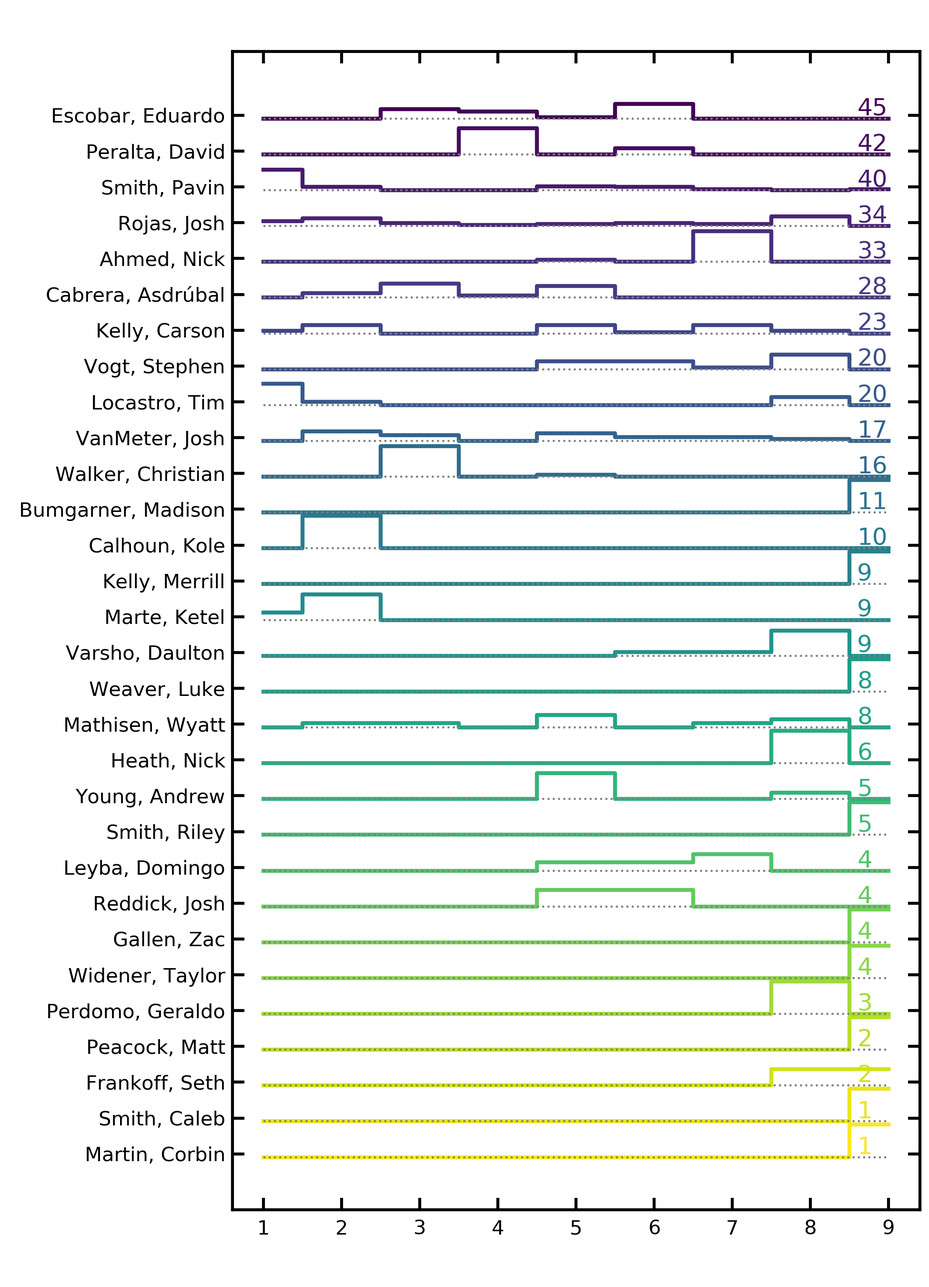
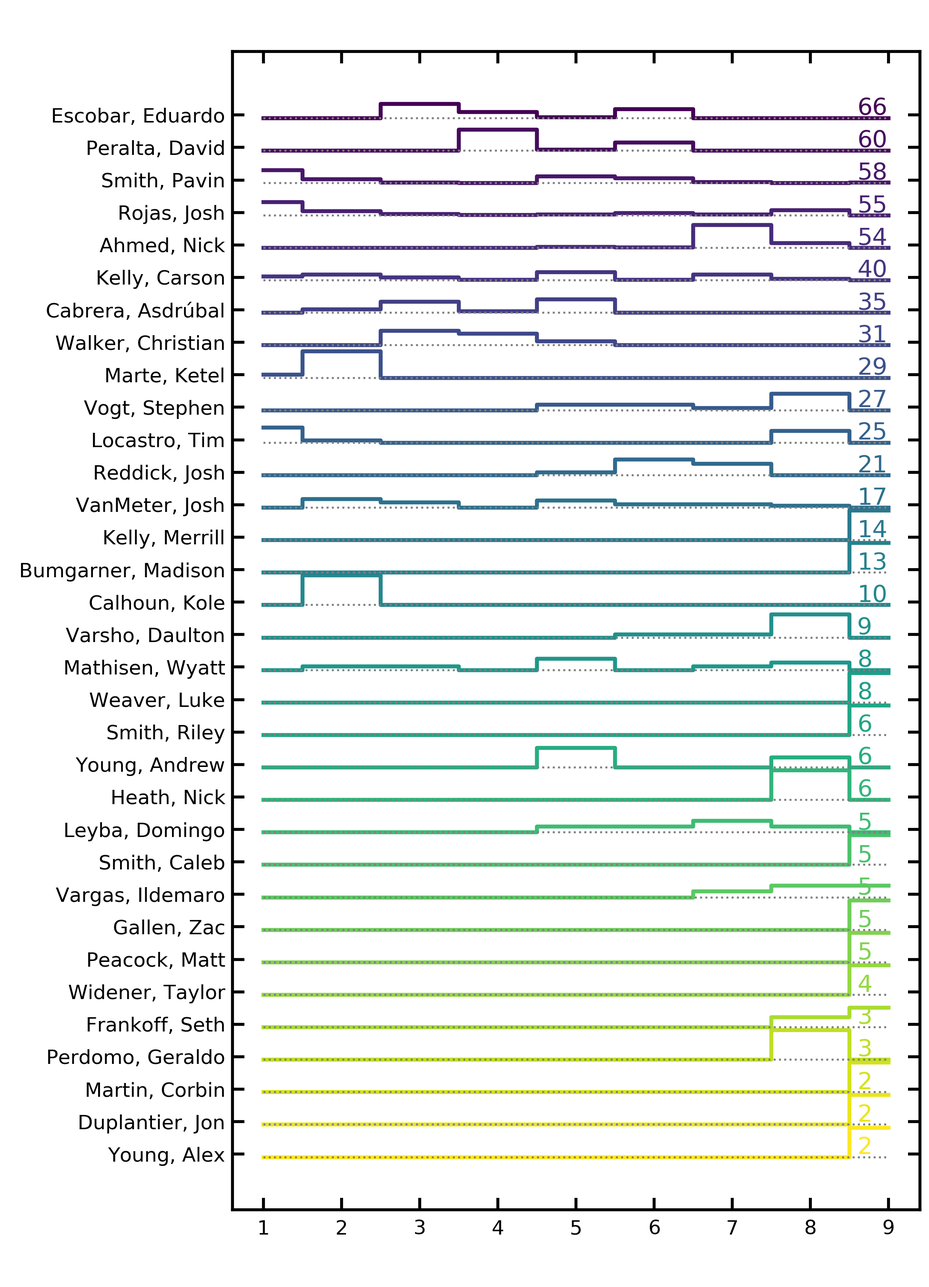
update lineups

Changed region(s): [[0.0308, 0.0622, 0.9846, 0.9022]]

diff --git a/Lineups/index.html b/Lineups/index.html
@@ -5,43 +5,57 @@
     <link rel="stylesheet" href="style.css" />
     <meta charset="UTF-8">
     <!--https://www.w3schools.com/css/css_table.asp-->
-  </head>
+<script>
+window.onload=function(){ 
+const getCellValue = (tr, idx) => tr.children[idx].innerText || tr.children[idx].textContent;
+const comparer = (idx, asc) => (a, b) => ((v1, v2) => 
+    v1 !== '' && v2 !== '' && !isNaN(v1) && !isNaN(v2) ? v1 - v2 : v1.toString().localeCompare(v2)
+    )(getCellValue(asc ? a : b, idx), getCellValue(asc ? b : a, idx));
+// do the work...
+document.querySelectorAll('th').forEach(th => th.addEventListener('click', (() => {
+    const table = th.closest('table');
+    Array.from(table.querySelectorAll('tr:nth-child(n+2)'))
+        .sort(comparer(Array.from(th.parentNode.children).indexOf(th), this.asc = !this.asc))
+        .forEach(tr => table.appendChild(tr) );
+})));
+}
+</script>  </head>
 
   <body>
   <h2>Batting Order Breakdown</h2>
   <p>For each team, what is the "typical" 2021 lineup?</p>
 <table id="customers">
 <tr><th>Team</th><th>1st</th><th>2nd</th><th>3rd</th><th>4th</th><th>5th</th><th>6th</th><th>7th</th><th>8th</th><th>9th</th><th>Similarity</th><th>First Appeared</th></tr>
-<tr><td><a href="figures/2021LAAorder.png">LAA</a></td><td>Fletcher, David</td><td>Ohtani, Shohei</td><td>Trout, Mike</td><td>Rendon, Anthony</td><td>Walsh, Jared</td><td>Upton, Justin</td><td>Iglesias, José</td><td>Suzuki, Kurt</td><td>Fowler, Dexter</td><td>5.29</td><td>3</td></tr>
-<tr><td><a href="figures/2021HOUorder.png">HOU</a></td><td>Altuve, Jose</td><td>Brantley, Michael</td><td>Bregman, Alex</td><td>Tucker, Kyle</td><td>Correa, Carlos</td><td>Alvarez, Yordan</td><td>Gurriel, Yuli</td><td>Straw, Myles</td><td>Maldonado, Martín</td><td>4.43</td><td>1</td></tr>
-<tr><td><a href="figures/2021OAKorder.png">OAK</a></td><td>Canha, Mark</td><td>Olson, Matt</td><td>Lowrie, Jed</td><td>Moreland, Mitch</td><td>Chapman, Matt</td><td>Piscotty, Stephen</td><td>Tom, Ka'ai</td><td>Andrus, Elvis</td><td>Garcia, Aramis</td><td>2.81</td><td>4</td></tr>
-<tr><td><a href="figures/2021TORorder.png">TOR</a></td><td>Semien, Marcus</td><td>Biggio, Cavan</td><td>Bichette, Bo</td><td>Hernández, Teoscar</td><td>Guerrero Jr., Vladimir</td><td>Gurriel Jr., Lourdes</td><td>Grichuk, Randal</td><td>Panik, Joe</td><td>Jansen, Danny</td><td>6.0</td><td>6</td></tr>
-<tr><td><a href="figures/2021ATLorder.png">ATL</a></td><td>Acuña Jr., Ronald</td><td>Albies, Ozzie</td><td>Freeman, Freddie</td><td>Ozuna, Marcell</td><td>d'Arnaud, Travis</td><td>Swanson, Dansby</td><td>Riley, Austin</td><td>Pache, Cristian</td><td>Fried, Max</td><td>5.33</td><td>1</td></tr>
-<tr><td><a href="figures/2021MILorder.png">MIL</a></td><td>Wong, Kolten</td><td>Hiura, Keston</td><td>Yelich, Christian</td><td>García, Avisaíl</td><td>Bradley Jr., Jackie</td><td>Urías, Luis</td><td>Narváez, Omar</td><td>Arcia, Orlando</td><td>Anderson, Brett</td><td>3.86</td><td>4</td></tr>
-<tr><td><a href="figures/2021STLorder.png">STL</a></td><td>Edman, Tommy</td><td>Goldschmidt, Paul</td><td>Arenado, Nolan</td><td>DeJong, Paul</td><td>O'Neill, Tyler</td><td>Molina, Yadier</td><td>Carlson, Dylan</td><td>Williams, Justin</td><td>Flaherty, Jack</td><td>4.86</td><td>1</td></tr>
-<tr><td><a href="figures/2021CHCorder.png">CHC</a></td><td>Happ, Ian</td><td>Contreras, Willson</td><td>Rizzo, Anthony</td><td>Bryant, Kris</td><td>Pederson, Joc</td><td>Báez, Javier</td><td>Heyward, Jason</td><td>Bote, David</td><td>Hendricks, Kyle</td><td>3.71</td><td>1</td></tr>
-<tr><td><a href="figures/2021ARIorder.png">ARI</a></td><td>Rojas, Josh</td><td>Marte, Ketel</td><td>Walker, Christian</td><td>Peralta, David</td><td>Cabrera, Asdrúbal</td><td>Escobar, Eduardo</td><td>Kelly, Carson</td><td>Locastro, Tim</td><td>Bumgarner, Madison</td><td>3.86</td><td>6</td></tr>
-<tr><td><a href="figures/2021LADorder.png">LAD</a></td><td>Betts, Mookie</td><td>Seager, Corey</td><td>Turner, Justin</td><td>Bellinger, Cody</td><td>Muncy, Max</td><td>Taylor, Chris</td><td>Lux, Gavin</td><td>Barnes, Austin</td><td>Kershaw, Clayton</td><td>2.86</td><td>1</td></tr>
-<tr><td><a href="figures/2021SForder.png">SF</a></td><td>Slater, Austin</td><td>Yastrzemski, Mike</td><td>Solano, Donovan</td><td>Longoria, Evan</td><td>Ruf, Darin</td><td>Flores, Wilmer</td><td>Posey, Buster</td><td>Crawford, Brandon</td><td>Dubón, Mauricio</td><td>2.0</td><td>2</td></tr>
-<tr><td><a href="figures/2021CLEorder.png">CLE</a></td><td>Luplow, Jordan</td><td>Hernandez, Cesar</td><td>Ramírez, José</td><td>Rosario, Eddie</td><td>Reyes, Franmil</td><td>Naylor, Josh</td><td>Chang, Yu</td><td>Pérez, Roberto</td><td>Giménez, Andrés</td><td>5.0</td><td>1</td></tr>
-<tr><td><a href="figures/2021SEAorder.png">SEA</a></td><td>Haniger, Mitch</td><td>France, Ty</td><td>Seager, Kyle</td><td>White, Evan</td><td>Trammell, Taylor</td><td>Moore, Dylan</td><td>Fraley, Jake</td><td>Torrens, Luis</td><td>Crawford, J.P.</td><td>5.29</td><td>2</td></tr>
-<tr><td><a href="figures/2021MIAorder.png">MIA</a></td><td>Dickerson, Corey</td><td>Marte, Starling</td><td>Aguilar, Jesús</td><td>Duvall, Adam</td><td>Anderson, Brian</td><td>Chisholm Jr., Jazz</td><td>Alfaro, Jorge</td><td>Rojas, Miguel</td><td>Alcantara, Sandy</td><td>3.14</td><td>1</td></tr>
-<tr><td><a href="figures/2021NYMorder.png">NYM</a></td><td>Nimmo, Brandon</td><td>Lindor, Francisco</td><td>Conforto, Michael</td><td>Alonso, Pete</td><td>Smith, Dominic</td><td>Villar, Jonathan</td><td>McNeil, Jeff</td><td>McCann, James</td><td>Walker, Taijuan</td><td>3.75</td><td>4</td></tr>
-<tr><td><a href="figures/2021WSHorder.png">WSH</a></td><td>Robles, Victor</td><td>Turner, Trea</td><td>Soto, Juan</td><td>Zimmerman, Ryan</td><td>Castro, Starlin</td><td>Pérez, Hernán</td><td>Stevenson, Andrew</td><td>Lucroy, Jonathan</td><td>Scherzer, Max</td><td>4.0</td><td>1</td></tr>
-<tr><td><a href="figures/2021BALorder.png">BAL</a></td><td>Mullins, Cedric</td><td>Mancini, Trey</td><td>Santander, Anthony</td><td>Mountcastle, Ryan</td><td>Ruiz, Rio</td><td>Hays, Austin</td><td>Franco, Maikel</td><td>Galvis, Freddy</td><td>Severino, Pedro</td><td>4.29</td><td>1</td></tr>
-<tr><td><a href="figures/2021SDorder.png">SD</a></td><td>Pham, Tommy</td><td>Tatis Jr., Fernando</td><td>Machado, Manny</td><td>Hosmer, Eric</td><td>Myers, Wil</td><td>Cronenworth, Jake</td><td>Profar, Jurickson</td><td>Caratini, Victor</td><td>Darvish, Yu</td><td>2.57</td><td>1</td></tr>
-<tr><td><a href="figures/2021PHIorder.png">PHI</a></td><td>McCutchen, Andrew</td><td>Hoskins, Rhys</td><td>Harper, Bryce</td><td>Realmuto, J.T.</td><td>Bohm, Alec</td><td>Gregorius, Didi</td><td>Segura, Jean</td><td>Haseley, Adam</td><td>Nola, Aaron</td><td>4.67</td><td>1</td></tr>
-<tr><td><a href="figures/2021PITorder.png">PIT</a></td><td>Frazier, Adam</td><td>Newman, Kevin</td><td>Reynolds, Bryan</td><td>Moran, Colin</td><td>Evans, Phillip</td><td>Polanco, Gregory</td><td>Stallings, Jacob</td><td>Fowler, Dustin</td><td>Anderson, Tyler</td><td>3.71</td><td>7</td></tr>
-<tr><td><a href="figures/2021TEXorder.png">TEX</a></td><td>Kiner-Falefa, Isiah</td><td>Dahl, David</td><td>Gallo, Joey</td><td>Solak, Nick</td><td>Lowe, Nate</td><td>Trevino, Jose</td><td>White, Eli</td><td>Taveras, Leody</td><td>Culberson, Charlie</td><td>4.08</td><td>6</td></tr>
-<tr><td><a href="figures/2021TBorder.png">TB</a></td><td>Tsutsugo, Yoshi</td><td>Meadows, Austin</td><td>Arozarena, Randy</td><td>Lowe, Brandon</td><td>Díaz, Yandy</td><td>Wendle, Joey</td><td>Margot, Manuel</td><td>Mejía, Francisco</td><td>Yarbrough, Ryan</td><td>2.58</td><td>2</td></tr>
-<tr><td><a href="figures/2021BOSorder.png">BOS</a></td><td>Hernández, Enrique</td><td>Verdugo, Alex</td><td>Martinez, J.D.</td><td>Bogaerts, Xander</td><td>Devers, Rafael</td><td>Renfroe, Hunter</td><td>Gonzalez, Marwin</td><td>Vázquez, Christian</td><td>Dalbec, Bobby</td><td>3.43</td><td>1</td></tr>
-<tr><td><a href="figures/2021CINorder.png">CIN</a></td><td>Naquin, Tyler</td><td>Castellanos, Nick</td><td>Votto, Joey</td><td>Suárez, Eugenio</td><td>Moustakas, Mike</td><td>Senzel, Nick</td><td>India, Jonathan</td><td>Barnhart, Tucker</td><td>De León, José</td><td>4.75</td><td>4</td></tr>
-<tr><td><a href="figures/2021COLorder.png">COL</a></td><td>Tapia, Raimel</td><td>Hampson, Garrett</td><td>Story, Trevor</td><td>Blackmon, Charlie</td><td>Cron, C.J.</td><td>McMahon, Ryan</td><td>Hilliard, Sam</td><td>Nuñez, Dom</td><td>Márquez, Germán</td><td>3.14</td><td>5</td></tr>
-<tr><td><a href="figures/2021KCorder.png">KC</a></td><td>Merrifield, Whit</td><td>Benintendi, Andrew</td><td>Santana, Carlos</td><td>Perez, Salvador</td><td>Soler, Jorge</td><td>Dozier, Hunter</td><td>Isbel, Kyle</td><td>Taylor, Michael A.</td><td>Lopez, Nicky</td><td>6.25</td><td>1</td></tr>
-<tr><td><a href="figures/2021DETorder.png">DET</a></td><td>Grossman, Robbie</td><td>Candelario, Jeimer</td><td>Castro, Willi</td><td>Cabrera, Miguel</td><td>Schoop, Jonathan</td><td>Mazara, Nomar</td><td>Ramos, Wilson</td><td>Goodrum, Niko</td><td>Jones, JaCoby</td><td>2.67</td><td>2</td></tr>
-<tr><td><a href="figures/2021MINorder.png">MIN</a></td><td>Arraez, Luis</td><td>Polanco, Jorge</td><td>Buxton, Byron</td><td>Kepler, Max</td><td>Sanó, Miguel</td><td>Cave, Jake</td><td>Garver, Mitch</td><td>Simmons, Andrelton</td><td>Pineda, Michael</td><td>2.57</td><td>3</td></tr>
-<tr><td><a href="figures/2021CWSorder.png">CWS</a></td><td>Anderson, Tim</td><td>Eaton, Adam</td><td>Abreu, José</td><td>Moncada, Yoán</td><td>Mercedes, Yermín</td><td>Grandal, Yasmani</td><td>Robert, Luis</td><td>Hamilton, Billy</td><td>Madrigal, Nick</td><td>2.94</td><td>4</td></tr>
-<tr><td><a href="figures/2021NYYorder.png">NYY</a></td><td>LeMahieu, DJ</td><td>Judge, Aaron</td><td>Hicks, Aaron</td><td>Stanton, Giancarlo</td><td>Torres, Gleyber</td><td>Bruce, Jay</td><td>Sánchez, Gary</td><td>Urshela, Gio</td><td>Frazier, Clint</td><td>3.75</td><td>2</td></tr>
+<tr><td><a href="figures/2021LAAorder.png">LAA</a></td><td>Fletcher, David</td><td>Ohtani, Shohei</td><td>Trout, Mike</td><td>Rendon, Anthony</td><td>Walsh, Jared</td><td>Upton, Justin</td><td>Iglesias, José</td><td>Suzuki, Kurt</td><td>Fowler, Dexter</td><td>2.54</td><td>3</td></tr>
+<tr><td><a href="figures/2021HOUorder.png">HOU</a></td><td>Altuve, Jose</td><td>Brantley, Michael</td><td>Bregman, Alex</td><td>Alvarez, Yordan</td><td>Gurriel, Yuli</td><td>Correa, Carlos</td><td>Tucker, Kyle</td><td>Straw, Myles</td><td>Maldonado, Martín</td><td>4.38</td><td>8</td></tr>
+<tr><td><a href="figures/2021OAKorder.png">OAK</a></td><td>Canha, Mark</td><td>Laureano, Ramón</td><td>Olson, Matt</td><td>Murphy, Sean</td><td>Chapman, Matt</td><td>Lowrie, Jed</td><td>Piscotty, Stephen</td><td>Andrus, Elvis</td><td>Kemp, Tony</td><td>2.57</td><td>34</td></tr>
+<tr><td><a href="figures/2021TORorder.png">TOR</a></td><td>Semien, Marcus</td><td>Bichette, Bo</td><td>Guerrero Jr., Vladimir</td><td>Hernández, Teoscar</td><td>Grichuk, Randal</td><td>Gurriel Jr., Lourdes</td><td>Espinal, Santiago</td><td>Davis, Jonathan</td><td>Jansen, Danny</td><td>4.44</td><td>49</td></tr>
+<tr><td><a href="figures/2021ATLorder.png">ATL</a></td><td>Acuña Jr., Ronald</td><td>Freeman, Freddie</td><td>Ozuna, Marcell</td><td>Albies, Ozzie</td><td>Riley, Austin</td><td>Swanson, Dansby</td><td>Contreras, William</td><td>Heredia, Guillermo</td><td>Fried, Max</td><td>3.47</td><td>48</td></tr>
+<tr><td><a href="figures/2021MILorder.png">MIL</a></td><td>Wong, Kolten</td><td>Vogelbach, Daniel</td><td>Yelich, Christian</td><td>García, Avisaíl</td><td>Narváez, Omar</td><td>Shaw, Travis</td><td>Adames, Willy</td><td>Bradley Jr., Jackie</td><td>Woodruff, Brandon</td><td>1.79</td><td>54</td></tr>
+<tr><td><a href="figures/2021STLorder.png">STL</a></td><td>Edman, Tommy</td><td>Carlson, Dylan</td><td>Goldschmidt, Paul</td><td>Arenado, Nolan</td><td>Molina, Yadier</td><td>O'Neill, Tyler</td><td>Sosa, Edmundo</td><td>Williams, Justin</td><td>Wainwright, Adam</td><td>3.61</td><td>54</td></tr>
+<tr><td><a href="figures/2021CHCorder.png">CHC</a></td><td>Pederson, Joc</td><td>Bryant, Kris</td><td>Báez, Javier</td><td>Rizzo, Anthony</td><td>Contreras, Willson</td><td>Heyward, Jason</td><td>Bote, David</td><td>Sogard, Eric</td><td>Williams, Trevor</td><td>1.99</td><td>34</td></tr>
+<tr><td><a href="figures/2021ARIorder.png">ARI</a></td><td>Rojas, Josh</td><td>Marte, Ketel</td><td>Escobar, Eduardo</td><td>Peralta, David</td><td>Smith, Pavin</td><td>Reddick, Josh</td><td>Ahmed, Nick</td><td>Vogt, Stephen</td><td>Kelly, Merrill</td><td>1.97</td><td>59</td></tr>
+<tr><td><a href="figures/2021LADorder.png">LAD</a></td><td>Betts, Mookie</td><td>Seager, Corey</td><td>Turner, Justin</td><td>Muncy, Max</td><td>Smith, Will</td><td>Taylor, Chris</td><td>Beaty, Matt</td><td>Lux, Gavin</td><td>Buehler, Walker</td><td>2.7</td><td>32</td></tr>
+<tr><td><a href="figures/2021SForder.png">SF</a></td><td>Tauchman, Mike</td><td>Yastrzemski, Mike</td><td>Posey, Buster</td><td>Belt, Brandon</td><td>Longoria, Evan</td><td>Crawford, Brandon</td><td>Flores, Wilmer</td><td>Duggar, Steven</td><td>Gausman, Kevin</td><td>1.34</td><td>38</td></tr>
+<tr><td><a href="figures/2021CLEorder.png">CLE</a></td><td>Hernandez, Cesar</td><td>Rosario, Amed</td><td>Ramírez, José</td><td>Rosario, Eddie</td><td>Reyes, Franmil</td><td>Naylor, Josh</td><td>Bauers, Jake</td><td>Hedges, Austin</td><td>Giménez, Andrés</td><td>3.16</td><td>33</td></tr>
+<tr><td><a href="figures/2021SEAorder.png">SEA</a></td><td>Haniger, Mitch</td><td>France, Ty</td><td>Seager, Kyle</td><td>Lewis, Kyle</td><td>Marmolejos, José</td><td>Moore, Dylan</td><td>Trammell, Taylor</td><td>Murphy, Tom</td><td>Crawford, J.P.</td><td>2.31</td><td>27</td></tr>
+<tr><td><a href="figures/2021MIAorder.png">MIA</a></td><td>Chisholm Jr., Jazz</td><td>Rojas, Miguel</td><td>Aguilar, Jesús</td><td>Duvall, Adam</td><td>Anderson, Brian</td><td>Dickerson, Corey</td><td>León, Sandy</td><td>Sierra, Magneuris</td><td>Rogers, Trevor</td><td>2.06</td><td>47</td></tr>
+<tr><td><a href="figures/2021NYMorder.png">NYM</a></td><td>McNeil, Jeff</td><td>Lindor, Francisco</td><td>Conforto, Michael</td><td>Alonso, Pete</td><td>Smith, Dominic</td><td>Pillar, Kevin</td><td>Villar, Jonathan</td><td>McCann, James</td><td>Walker, Taijuan</td><td>2.14</td><td>28</td></tr>
+<tr><td><a href="figures/2021WSHorder.png">WSH</a></td><td>Turner, Trea</td><td>Harrison, Josh</td><td>Soto, Juan</td><td>Schwarber, Kyle</td><td>Castro, Starlin</td><td>Bell, Josh</td><td>Gomes, Yan</td><td>Corbin, Patrick</td><td>Robles, Victor</td><td>2.22</td><td>34</td></tr>
+<tr><td><a href="figures/2021BALorder.png">BAL</a></td><td>Mullins, Cedric</td><td>Hays, Austin</td><td>Mancini, Trey</td><td>Severino, Pedro</td><td>Franco, Maikel</td><td>Mountcastle, Ryan</td><td>Galvis, Freddy</td><td>Valaika, Pat</td><td>Urías, Ramón</td><td>2.46</td><td>33</td></tr>
+<tr><td><a href="figures/2021SDorder.png">SD</a></td><td>Pham, Tommy</td><td>Tatis Jr., Fernando</td><td>Machado, Manny</td><td>Hosmer, Eric</td><td>Myers, Wil</td><td>Cronenworth, Jake</td><td>Profar, Jurickson</td><td>Caratini, Victor</td><td>Darvish, Yu</td><td>2.16</td><td>1</td></tr>
+<tr><td><a href="figures/2021PHIorder.png">PHI</a></td><td>McCutchen, Andrew</td><td>Hoskins, Rhys</td><td>Harper, Bryce</td><td>Realmuto, J.T.</td><td>Bohm, Alec</td><td>Gregorius, Didi</td><td>Segura, Jean</td><td>Quinn, Roman</td><td>Wheeler, Zack</td><td>2.35</td><td>2</td></tr>
+<tr><td><a href="figures/2021PITorder.png">PIT</a></td><td>Frazier, Adam</td><td>Evans, Phillip</td><td>Reynolds, Bryan</td><td>Moran, Colin</td><td>González, Erik</td><td>Polanco, Gregory</td><td>Stallings, Jacob</td><td>Fowler, Dustin</td><td>Brubaker, JT</td><td>2.69</td><td>4</td></tr>
+<tr><td><a href="figures/2021TEXorder.png">TEX</a></td><td>Calhoun, Willie</td><td>Solak, Nick</td><td>Lowe, Nate</td><td>Gallo, Joey</td><td>García, Adolis</td><td>Dahl, David</td><td>Kiner-Falefa, Isiah</td><td>Culberson, Charlie</td><td>Trevino, Jose</td><td>2.1</td><td>30</td></tr>
+<tr><td><a href="figures/2021TBorder.png">TB</a></td><td>Arozarena, Randy</td><td>Meadows, Austin</td><td>Margot, Manuel</td><td>Lowe, Brandon</td><td>Díaz, Yandy</td><td>Wendle, Joey</td><td>Zunino, Mike</td><td>Adames, Willy</td><td>Phillips, Brett</td><td>1.54</td><td>39</td></tr>
+<tr><td><a href="figures/2021BOSorder.png">BOS</a></td><td>Hernández, Enrique</td><td>Verdugo, Alex</td><td>Martinez, J.D.</td><td>Bogaerts, Xander</td><td>Devers, Rafael</td><td>Vázquez, Christian</td><td>Gonzalez, Marwin</td><td>Renfroe, Hunter</td><td>Dalbec, Bobby</td><td>4.09</td><td>26</td></tr>
+<tr><td><a href="figures/2021CINorder.png">CIN</a></td><td>Winker, Jesse</td><td>Castellanos, Nick</td><td>Votto, Joey</td><td>Suárez, Eugenio</td><td>Naquin, Tyler</td><td>India, Jonathan</td><td>Barnhart, Tucker</td><td>Farmer, Kyle</td><td>Gray, Sonny</td><td>1.93</td><td>13</td></tr>
+<tr><td><a href="figures/2021COLorder.png">COL</a></td><td>Tapia, Raimel</td><td>McMahon, Ryan</td><td>Story, Trevor</td><td>Blackmon, Charlie</td><td>Cron, C.J.</td><td>Daza, Yonathan</td><td>Hampson, Garrett</td><td>Nuñez, Dom</td><td>Márquez, Germán</td><td>2.22</td><td>19</td></tr>
+<tr><td><a href="figures/2021KCorder.png">KC</a></td><td>Merrifield, Whit</td><td>Santana, Carlos</td><td>Benintendi, Andrew</td><td>Perez, Salvador</td><td>Soler, Jorge</td><td>Dozier, Hunter</td><td>Gutierrez, Kelvin</td><td>Taylor, Michael A.</td><td>Lopez, Nicky</td><td>3.83</td><td>61</td></tr>
+<tr><td><a href="figures/2021DETorder.png">DET</a></td><td>Grossman, Robbie</td><td>Castro, Harold</td><td>Candelario, Jeimer</td><td>Cabrera, Miguel</td><td>Mazara, Nomar</td><td>Schoop, Jonathan</td><td>Goodrum, Niko</td><td>Castro, Willi</td><td>Rogers, Jake</td><td>2.27</td><td>35</td></tr>
+<tr><td><a href="figures/2021MINorder.png">MIN</a></td><td>Arraez, Luis</td><td>Donaldson, Josh</td><td>Cruz, Nelson</td><td>Kepler, Max</td><td>Polanco, Jorge</td><td>Larnach, Trevor</td><td>Astudillo, Willians</td><td>Simmons, Andrelton</td><td>Rortvedt, Ben</td><td>1.98</td><td>34</td></tr>
+<tr><td><a href="figures/2021CWSorder.png">CWS</a></td><td>Anderson, Tim</td><td>Eaton, Adam</td><td>Moncada, Yoán</td><td>Abreu, José</td><td>Mercedes, Yermín</td><td>Grandal, Yasmani</td><td>Vaughn, Andrew</td><td>García, Leury</td><td>Madrigal, Nick</td><td>3.44</td><td>34</td></tr>
+<tr><td><a href="figures/2021NYYorder.png">NYY</a></td><td>LeMahieu, DJ</td><td>Stanton, Giancarlo</td><td>Judge, Aaron</td><td>Urshela, Gio</td><td>Torres, Gleyber</td><td>Odor, Rougned</td><td>Frazier, Clint</td><td>Higashioka, Kyle</td><td>Gardner, Brett</td><td>2.61</td><td>52</td></tr>
 </table>
 </body>
 </html>

diff --git a/Lineups/lineup2021.html b/Lineups/lineup2021.html
@@ -26,36 +26,36 @@ document.querySelectorAll('th').forEach(th => th.addEventListener('click', (() =
   <p>For each team, what is the "typical" 2021 lineup?</p>
 <table id="customers">
 <tr><th>Team</th><th>1st</th><th>2nd</th><th>3rd</th><th>4th</th><th>5th</th><th>6th</th><th>7th</th><th>8th</th><th>9th</th><th>Similarity</th><th>First Appeared</th></tr>
-<tr><td><a href="figures/2021LAAorder.png">LAA</a></td><td>Fletcher, David</td><td>Ohtani, Shohei</td><td>Trout, Mike</td><td>Rendon, Anthony</td><td>Walsh, Jared</td><td>Upton, Justin</td><td>Iglesias, José</td><td>Suzuki, Kurt</td><td>Fowler, Dexter</td><td>3.21</td><td>3</td></tr>
-<tr><td><a href="figures/2021HOUorder.png">HOU</a></td><td>Altuve, Jose</td><td>Brantley, Michael</td><td>Bregman, Alex</td><td>Alvarez, Yordan</td><td>Gurriel, Yuli</td><td>Correa, Carlos</td><td>Tucker, Kyle</td><td>Straw, Myles</td><td>Maldonado, Martín</td><td>4.55</td><td>8</td></tr>
-<tr><td><a href="figures/2021OAKorder.png">OAK</a></td><td>Canha, Mark</td><td>Laureano, Ramón</td><td>Murphy, Sean</td><td>Olson, Matt</td><td>Chapman, Matt</td><td>Lowrie, Jed</td><td>Piscotty, Stephen</td><td>Andrus, Elvis</td><td>Kemp, Tony</td><td>3.02</td><td>30</td></tr>
-<tr><td><a href="figures/2021TORorder.png">TOR</a></td><td>Semien, Marcus</td><td>Bichette, Bo</td><td>Guerrero Jr., Vladimir</td><td>Hernández, Teoscar</td><td>Grichuk, Randal</td><td>Biggio, Cavan</td><td>Gurriel Jr., Lourdes</td><td>Davis, Jonathan</td><td>Jansen, Danny</td><td>3.45</td><td>31</td></tr>
-<tr><td><a href="figures/2021ATLorder.png">ATL</a></td><td>Acuña Jr., Ronald</td><td>Freeman, Freddie</td><td>Ozuna, Marcell</td><td>Albies, Ozzie</td><td>Riley, Austin</td><td>Swanson, Dansby</td><td>Contreras, William</td><td>Pache, Cristian</td><td>Ynoa, Huascar</td><td>3.75</td><td>29</td></tr>
-<tr><td><a href="figures/2021MILorder.png">MIL</a></td><td>Wong, Kolten</td><td>Vogelbach, Daniel</td><td>Yelich, Christian</td><td>Shaw, Travis</td><td>Bradley Jr., Jackie</td><td>García, Avisaíl</td><td>Narváez, Omar</td><td>Urías, Luis</td><td>Peralta, Freddy</td><td>1.94</td><td>5</td></tr>
-<tr><td><a href="figures/2021STLorder.png">STL</a></td><td>Edman, Tommy</td><td>Carlson, Dylan</td><td>Goldschmidt, Paul</td><td>Arenado, Nolan</td><td>DeJong, Paul</td><td>O'Neill, Tyler</td><td>Bader, Harrison</td><td>Knizner, Andrew</td><td>Wainwright, Adam</td><td>3.19</td><td>29</td></tr>
-<tr><td><a href="figures/2021CHCorder.png">CHC</a></td><td>Happ, Ian</td><td>Contreras, Willson</td><td>Rizzo, Anthony</td><td>Bryant, Kris</td><td>Pederson, Joc</td><td>Báez, Javier</td><td>Heyward, Jason</td><td>Bote, David</td><td>Davies, Zach</td><td>1.96</td><td>8</td></tr>
-<tr><td><a href="figures/2021ARIorder.png">ARI</a></td><td>Smith, Pavin</td><td>VanMeter, Josh</td><td>Cabrera, Asdrúbal</td><td>Peralta, David</td><td>Kelly, Carson</td><td>Escobar, Eduardo</td><td>Ahmed, Nick</td><td>Rojas, Josh</td><td>Bumgarner, Madison</td><td>2.23</td><td>25</td></tr>
-<tr><td><a href="figures/2021LADorder.png">LAD</a></td><td>Betts, Mookie</td><td>Seager, Corey</td><td>Turner, Justin</td><td>Muncy, Max</td><td>Smith, Will</td><td>Taylor, Chris</td><td>Beaty, Matt</td><td>Lux, Gavin</td><td>Buehler, Walker</td><td>3.18</td><td>32</td></tr>
-<tr><td><a href="figures/2021SForder.png">SF</a></td><td>La Stella, Tommy</td><td>Yastrzemski, Mike</td><td>Dickerson, Alex</td><td>Belt, Brandon</td><td>Longoria, Evan</td><td>Crawford, Brandon</td><td>Posey, Buster</td><td>Dubón, Mauricio</td><td>Webb, Logan</td><td>1.47</td><td>8</td></tr>
-<tr><td><a href="figures/2021CLEorder.png">CLE</a></td><td>Hernandez, Cesar</td><td>Luplow, Jordan</td><td>Ramírez, José</td><td>Rosario, Eddie</td><td>Reyes, Franmil</td><td>Naylor, Josh</td><td>Bauers, Jake</td><td>Pérez, Roberto</td><td>Giménez, Andrés</td><td>3.33</td><td>22</td></tr>
-<tr><td><a href="figures/2021SEAorder.png">SEA</a></td><td>Haniger, Mitch</td><td>France, Ty</td><td>Seager, Kyle</td><td>Lewis, Kyle</td><td>Marmolejos, José</td><td>Moore, Dylan</td><td>Trammell, Taylor</td><td>Murphy, Tom</td><td>Crawford, J.P.</td><td>2.98</td><td>27</td></tr>
-<tr><td><a href="figures/2021MIAorder.png">MIA</a></td><td>Dickerson, Corey</td><td>Marte, Starling</td><td>Aguilar, Jesús</td><td>Duvall, Adam</td><td>Anderson, Brian</td><td>Chisholm Jr., Jazz</td><td>Rojas, Miguel</td><td>Alfaro, Jorge</td><td>Alcantara, Sandy</td><td>2.26</td><td>14</td></tr>
-<tr><td><a href="figures/2021NYMorder.png">NYM</a></td><td>McNeil, Jeff</td><td>Lindor, Francisco</td><td>Conforto, Michael</td><td>Alonso, Pete</td><td>Smith, Dominic</td><td>Pillar, Kevin</td><td>Villar, Jonathan</td><td>McCann, James</td><td>Walker, Taijuan</td><td>2.75</td><td>28</td></tr>
-<tr><td><a href="figures/2021WSHorder.png">WSH</a></td><td>Turner, Trea</td><td>Harrison, Josh</td><td>Soto, Juan</td><td>Schwarber, Kyle</td><td>Castro, Starlin</td><td>Bell, Josh</td><td>Gomes, Yan</td><td>Corbin, Patrick</td><td>Robles, Victor</td><td>2.11</td><td>34</td></tr>
-<tr><td><a href="figures/2021BALorder.png">BAL</a></td><td>Mullins, Cedric</td><td>Hays, Austin</td><td>Mancini, Trey</td><td>Franco, Maikel</td><td>Severino, Pedro</td><td>Mountcastle, Ryan</td><td>Galvis, Freddy</td><td>Stewart, DJ</td><td>Urías, Ramón</td><td>2.42</td><td>27</td></tr>
-<tr><td><a href="figures/2021SDorder.png">SD</a></td><td>Grisham, Trent</td><td>Profar, Jurickson</td><td>Machado, Manny</td><td>Hosmer, Eric</td><td>Myers, Wil</td><td>Cronenworth, Jake</td><td>Pham, Tommy</td><td>Caratini, Victor</td><td>Kim, Ha-Seong</td><td>2.36</td><td>10</td></tr>
-<tr><td><a href="figures/2021PHIorder.png">PHI</a></td><td>McCutchen, Andrew</td><td>Hoskins, Rhys</td><td>Harper, Bryce</td><td>Realmuto, J.T.</td><td>Bohm, Alec</td><td>Gregorius, Didi</td><td>Segura, Jean</td><td>Quinn, Roman</td><td>Wheeler, Zack</td><td>3.02</td><td>2</td></tr>
-<tr><td><a href="figures/2021PITorder.png">PIT</a></td><td>Frazier, Adam</td><td>Evans, Phillip</td><td>Reynolds, Bryan</td><td>Moran, Colin</td><td>González, Erik</td><td>Polanco, Gregory</td><td>Stallings, Jacob</td><td>Fowler, Dustin</td><td>Brubaker, JT</td><td>2.85</td><td>4</td></tr>
-<tr><td><a href="figures/2021TEXorder.png">TEX</a></td><td>Calhoun, Willie</td><td>Solak, Nick</td><td>Lowe, Nate</td><td>Gallo, Joey</td><td>García, Adolis</td><td>Dahl, David</td><td>Kiner-Falefa, Isiah</td><td>Culberson, Charlie</td><td>Trevino, Jose</td><td>2.49</td><td>30</td></tr>
-<tr><td><a href="figures/2021TBorder.png">TB</a></td><td>Arozarena, Randy</td><td>Meadows, Austin</td><td>Margot, Manuel</td><td>Lowe, Brandon</td><td>Díaz, Yandy</td><td>Wendle, Joey</td><td>Zunino, Mike</td><td>Adames, Willy</td><td>Phillips, Brett</td><td>1.69</td><td>39</td></tr>
-<tr><td><a href="figures/2021BOSorder.png">BOS</a></td><td>Hernández, Enrique</td><td>Verdugo, Alex</td><td>Martinez, J.D.</td><td>Bogaerts, Xander</td><td>Devers, Rafael</td><td>Vázquez, Christian</td><td>Gonzalez, Marwin</td><td>Renfroe, Hunter</td><td>Dalbec, Bobby</td><td>4.5</td><td>26</td></tr>
-<tr><td><a href="figures/2021CINorder.png">CIN</a></td><td>Winker, Jesse</td><td>Castellanos, Nick</td><td>Votto, Joey</td><td>Suárez, Eugenio</td><td>Moustakas, Mike</td><td>Senzel, Nick</td><td>India, Jonathan</td><td>Barnhart, Tucker</td><td>Castillo, Luis</td><td>2.19</td><td>1</td></tr>
-<tr><td><a href="figures/2021COLorder.png">COL</a></td><td>Tapia, Raimel</td><td>McMahon, Ryan</td><td>Story, Trevor</td><td>Blackmon, Charlie</td><td>Cron, C.J.</td><td>Daza, Yonathan</td><td>Fuentes, Josh</td><td>Nuñez, Dom</td><td>Gray, Jon</td><td>2.44</td><td>17</td></tr>
-<tr><td><a href="figures/2021KCorder.png">KC</a></td><td>Merrifield, Whit</td><td>Benintendi, Andrew</td><td>Santana, Carlos</td><td>Perez, Salvador</td><td>Soler, Jorge</td><td>Dozier, Hunter</td><td>Isbel, Kyle</td><td>Taylor, Michael A.</td><td>Lopez, Nicky</td><td>4.04</td><td>1</td></tr>
-<tr><td><a href="figures/2021DETorder.png">DET</a></td><td>Grossman, Robbie</td><td>Castro, Willi</td><td>Candelario, Jeimer</td><td>Cabrera, Miguel</td><td>Mazara, Nomar</td><td>Goodrum, Niko</td><td>Reyes, Victor</td><td>Baddoo, Akil</td><td>Greiner, Grayson</td><td>2.28</td><td>8</td></tr>
-<tr><td><a href="figures/2021MINorder.png">MIN</a></td><td>Arraez, Luis</td><td>Donaldson, Josh</td><td>Cruz, Nelson</td><td>Kepler, Max</td><td>Polanco, Jorge</td><td>Larnach, Trevor</td><td>Astudillo, Willians</td><td>Simmons, Andrelton</td><td>Rortvedt, Ben</td><td>2.09</td><td>34</td></tr>
+<tr><td><a href="figures/2021LAAorder.png">LAA</a></td><td>Fletcher, David</td><td>Ohtani, Shohei</td><td>Trout, Mike</td><td>Rendon, Anthony</td><td>Walsh, Jared</td><td>Upton, Justin</td><td>Iglesias, José</td><td>Suzuki, Kurt</td><td>Fowler, Dexter</td><td>2.52</td><td>3</td></tr>
+<tr><td><a href="figures/2021HOUorder.png">HOU</a></td><td>Altuve, Jose</td><td>Brantley, Michael</td><td>Bregman, Alex</td><td>Alvarez, Yordan</td><td>Gurriel, Yuli</td><td>Correa, Carlos</td><td>Tucker, Kyle</td><td>Straw, Myles</td><td>Maldonado, Martín</td><td>4.37</td><td>8</td></tr>
+<tr><td><a href="figures/2021OAKorder.png">OAK</a></td><td>Canha, Mark</td><td>Laureano, Ramón</td><td>Olson, Matt</td><td>Murphy, Sean</td><td>Chapman, Matt</td><td>Lowrie, Jed</td><td>Piscotty, Stephen</td><td>Andrus, Elvis</td><td>Kemp, Tony</td><td>2.59</td><td>34</td></tr>
+<tr><td><a href="figures/2021TORorder.png">TOR</a></td><td>Semien, Marcus</td><td>Bichette, Bo</td><td>Guerrero Jr., Vladimir</td><td>Hernández, Teoscar</td><td>Grichuk, Randal</td><td>Gurriel Jr., Lourdes</td><td>Panik, Joe</td><td>Espinal, Santiago</td><td>Jansen, Danny</td><td>4.53</td><td>51</td></tr>
+<tr><td><a href="figures/2021ATLorder.png">ATL</a></td><td>Acuña Jr., Ronald</td><td>Freeman, Freddie</td><td>Ozuna, Marcell</td><td>Albies, Ozzie</td><td>Riley, Austin</td><td>Swanson, Dansby</td><td>Contreras, William</td><td>Heredia, Guillermo</td><td>Fried, Max</td><td>3.52</td><td>48</td></tr>
+<tr><td><a href="figures/2021MILorder.png">MIL</a></td><td>Wong, Kolten</td><td>Vogelbach, Daniel</td><td>Yelich, Christian</td><td>García, Avisaíl</td><td>Narváez, Omar</td><td>Shaw, Travis</td><td>Adames, Willy</td><td>Bradley Jr., Jackie</td><td>Woodruff, Brandon</td><td>1.83</td><td>54</td></tr>
+<tr><td><a href="figures/2021STLorder.png">STL</a></td><td>Edman, Tommy</td><td>Carlson, Dylan</td><td>Goldschmidt, Paul</td><td>Arenado, Nolan</td><td>Molina, Yadier</td><td>O'Neill, Tyler</td><td>Sosa, Edmundo</td><td>Williams, Justin</td><td>Wainwright, Adam</td><td>3.56</td><td>54</td></tr>
+<tr><td><a href="figures/2021CHCorder.png">CHC</a></td><td>Pederson, Joc</td><td>Bryant, Kris</td><td>Báez, Javier</td><td>Rizzo, Anthony</td><td>Contreras, Willson</td><td>Heyward, Jason</td><td>Bote, David</td><td>Sogard, Eric</td><td>Williams, Trevor</td><td>2.06</td><td>34</td></tr>
+<tr><td><a href="figures/2021ARIorder.png">ARI</a></td><td>Rojas, Josh</td><td>Marte, Ketel</td><td>Escobar, Eduardo</td><td>Peralta, David</td><td>Smith, Pavin</td><td>Reddick, Josh</td><td>Ahmed, Nick</td><td>Vogt, Stephen</td><td>Kelly, Merrill</td><td>1.96</td><td>59</td></tr>
+<tr><td><a href="figures/2021LADorder.png">LAD</a></td><td>Betts, Mookie</td><td>Seager, Corey</td><td>Turner, Justin</td><td>Muncy, Max</td><td>Smith, Will</td><td>Taylor, Chris</td><td>Beaty, Matt</td><td>Lux, Gavin</td><td>Buehler, Walker</td><td>2.7</td><td>32</td></tr>
+<tr><td><a href="figures/2021SForder.png">SF</a></td><td>Tauchman, Mike</td><td>Yastrzemski, Mike</td><td>Posey, Buster</td><td>Belt, Brandon</td><td>Longoria, Evan</td><td>Crawford, Brandon</td><td>Flores, Wilmer</td><td>Duggar, Steven</td><td>Gausman, Kevin</td><td>1.39</td><td>38</td></tr>
+<tr><td><a href="figures/2021CLEorder.png">CLE</a></td><td>Hernandez, Cesar</td><td>Rosario, Amed</td><td>Ramírez, José</td><td>Rosario, Eddie</td><td>Reyes, Franmil</td><td>Naylor, Josh</td><td>Bauers, Jake</td><td>Hedges, Austin</td><td>Giménez, Andrés</td><td>3.22</td><td>33</td></tr>
+<tr><td><a href="figures/2021SEAorder.png">SEA</a></td><td>Haniger, Mitch</td><td>France, Ty</td><td>Seager, Kyle</td><td>Lewis, Kyle</td><td>Marmolejos, José</td><td>Moore, Dylan</td><td>Trammell, Taylor</td><td>Murphy, Tom</td><td>Crawford, J.P.</td><td>2.18</td><td>27</td></tr>
+<tr><td><a href="figures/2021MIAorder.png">MIA</a></td><td>Chisholm Jr., Jazz</td><td>Rojas, Miguel</td><td>Aguilar, Jesús</td><td>Duvall, Adam</td><td>Anderson, Brian</td><td>Dickerson, Corey</td><td>León, Sandy</td><td>Sierra, Magneuris</td><td>Rogers, Trevor</td><td>2.05</td><td>47</td></tr>
+<tr><td><a href="figures/2021NYMorder.png">NYM</a></td><td>McNeil, Jeff</td><td>Lindor, Francisco</td><td>Conforto, Michael</td><td>Alonso, Pete</td><td>Smith, Dominic</td><td>Pillar, Kevin</td><td>Villar, Jonathan</td><td>McCann, James</td><td>Walker, Taijuan</td><td>2.25</td><td>28</td></tr>
+<tr><td><a href="figures/2021WSHorder.png">WSH</a></td><td>Turner, Trea</td><td>Soto, Juan</td><td>Bell, Josh</td><td>Schwarber, Kyle</td><td>Harrison, Josh</td><td>Castro, Starlin</td><td>Gomes, Yan</td><td>Robles, Victor</td><td>Ross, Joe</td><td>2.1</td><td>14</td></tr>
+<tr><td><a href="figures/2021BALorder.png">BAL</a></td><td>Mullins, Cedric</td><td>Mancini, Trey</td><td>Santander, Anthony</td><td>Mountcastle, Ryan</td><td>Hays, Austin</td><td>Galvis, Freddy</td><td>Franco, Maikel</td><td>Severino, Pedro</td><td>Valaika, Pat</td><td>2.44</td><td>62</td></tr>
+<tr><td><a href="figures/2021SDorder.png">SD</a></td><td>Pham, Tommy</td><td>Tatis Jr., Fernando</td><td>Machado, Manny</td><td>Hosmer, Eric</td><td>Myers, Wil</td><td>Cronenworth, Jake</td><td>Profar, Jurickson</td><td>Caratini, Victor</td><td>Darvish, Yu</td><td>2.13</td><td>1</td></tr>
+<tr><td><a href="figures/2021PHIorder.png">PHI</a></td><td>McCutchen, Andrew</td><td>Hoskins, Rhys</td><td>Harper, Bryce</td><td>Realmuto, J.T.</td><td>Bohm, Alec</td><td>Gregorius, Didi</td><td>Segura, Jean</td><td>Quinn, Roman</td><td>Wheeler, Zack</td><td>2.2</td><td>2</td></tr>
+<tr><td><a href="figures/2021PITorder.png">PIT</a></td><td>Frazier, Adam</td><td>Evans, Phillip</td><td>Reynolds, Bryan</td><td>Moran, Colin</td><td>González, Erik</td><td>Polanco, Gregory</td><td>Stallings, Jacob</td><td>Fowler, Dustin</td><td>Brubaker, JT</td><td>2.72</td><td>4</td></tr>
+<tr><td><a href="figures/2021TEXorder.png">TEX</a></td><td>Calhoun, Willie</td><td>Solak, Nick</td><td>Lowe, Nate</td><td>Gallo, Joey</td><td>García, Adolis</td><td>Dahl, David</td><td>Kiner-Falefa, Isiah</td><td>Culberson, Charlie</td><td>Trevino, Jose</td><td>2.01</td><td>30</td></tr>
+<tr><td><a href="figures/2021TBorder.png">TB</a></td><td>Arozarena, Randy</td><td>Margot, Manuel</td><td>Meadows, Austin</td><td>Díaz, Yandy</td><td>Brosseau, Mike</td><td>Wendle, Joey</td><td>Zunino, Mike</td><td>Adames, Willy</td><td>Phillips, Brett</td><td>1.52</td><td>34</td></tr>
+<tr><td><a href="figures/2021BOSorder.png">BOS</a></td><td>Hernández, Enrique</td><td>Verdugo, Alex</td><td>Martinez, J.D.</td><td>Bogaerts, Xander</td><td>Devers, Rafael</td><td>Vázquez, Christian</td><td>Gonzalez, Marwin</td><td>Renfroe, Hunter</td><td>Dalbec, Bobby</td><td>4.17</td><td>26</td></tr>
+<tr><td><a href="figures/2021CINorder.png">CIN</a></td><td>Winker, Jesse</td><td>Castellanos, Nick</td><td>Votto, Joey</td><td>Suárez, Eugenio</td><td>Naquin, Tyler</td><td>India, Jonathan</td><td>Barnhart, Tucker</td><td>Farmer, Kyle</td><td>Miley, Wade</td><td>1.93</td><td>18</td></tr>
+<tr><td><a href="figures/2021COLorder.png">COL</a></td><td>Tapia, Raimel</td><td>McMahon, Ryan</td><td>Story, Trevor</td><td>Blackmon, Charlie</td><td>Cron, C.J.</td><td>Daza, Yonathan</td><td>Hampson, Garrett</td><td>Nuñez, Dom</td><td>Márquez, Germán</td><td>2.26</td><td>19</td></tr>
+<tr><td><a href="figures/2021KCorder.png">KC</a></td><td>Merrifield, Whit</td><td>Santana, Carlos</td><td>Benintendi, Andrew</td><td>Perez, Salvador</td><td>Soler, Jorge</td><td>Dozier, Hunter</td><td>Gutierrez, Kelvin</td><td>Taylor, Michael A.</td><td>Lopez, Nicky</td><td>3.84</td><td>61</td></tr>
+<tr><td><a href="figures/2021DETorder.png">DET</a></td><td>Grossman, Robbie</td><td>Castro, Harold</td><td>Candelario, Jeimer</td><td>Cabrera, Miguel</td><td>Mazara, Nomar</td><td>Schoop, Jonathan</td><td>Goodrum, Niko</td><td>Castro, Willi</td><td>Rogers, Jake</td><td>2.28</td><td>35</td></tr>
+<tr><td><a href="figures/2021MINorder.png">MIN</a></td><td>Arraez, Luis</td><td>Donaldson, Josh</td><td>Cruz, Nelson</td><td>Kepler, Max</td><td>Polanco, Jorge</td><td>Larnach, Trevor</td><td>Astudillo, Willians</td><td>Simmons, Andrelton</td><td>Rortvedt, Ben</td><td>2.0</td><td>34</td></tr>
 <tr><td><a href="figures/2021CWSorder.png">CWS</a></td><td>Anderson, Tim</td><td>Eaton, Adam</td><td>Moncada, Yoán</td><td>Abreu, José</td><td>Mercedes, Yermín</td><td>Grandal, Yasmani</td><td>Vaughn, Andrew</td><td>García, Leury</td><td>Madrigal, Nick</td><td>3.26</td><td>34</td></tr>
-<tr><td><a href="figures/2021NYYorder.png">NYY</a></td><td>LeMahieu, DJ</td><td>Stanton, Giancarlo</td><td>Judge, Aaron</td><td>Urshela, Gio</td><td>Torres, Gleyber</td><td>Hicks, Aaron</td><td>Frazier, Clint</td><td>Higashioka, Kyle</td><td>Odor, Rougned</td><td>2.6</td><td>23</td></tr>
+<tr><td><a href="figures/2021NYYorder.png">NYY</a></td><td>LeMahieu, DJ</td><td>Stanton, Giancarlo</td><td>Judge, Aaron</td><td>Urshela, Gio</td><td>Torres, Gleyber</td><td>Odor, Rougned</td><td>Andújar, Miguel</td><td>Higashioka, Kyle</td><td>Gardner, Brett</td><td>2.59</td><td>55</td></tr>
 </table>
 </body>
 </html>
